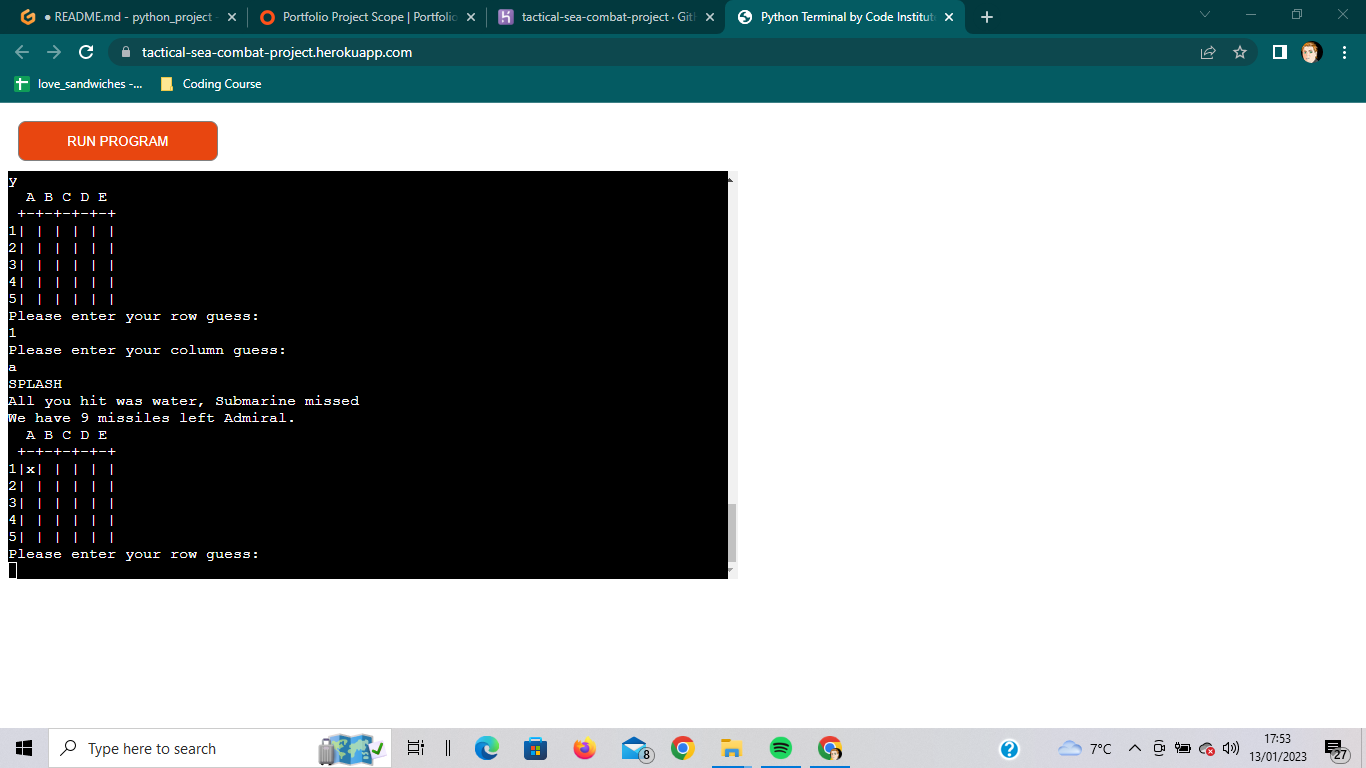
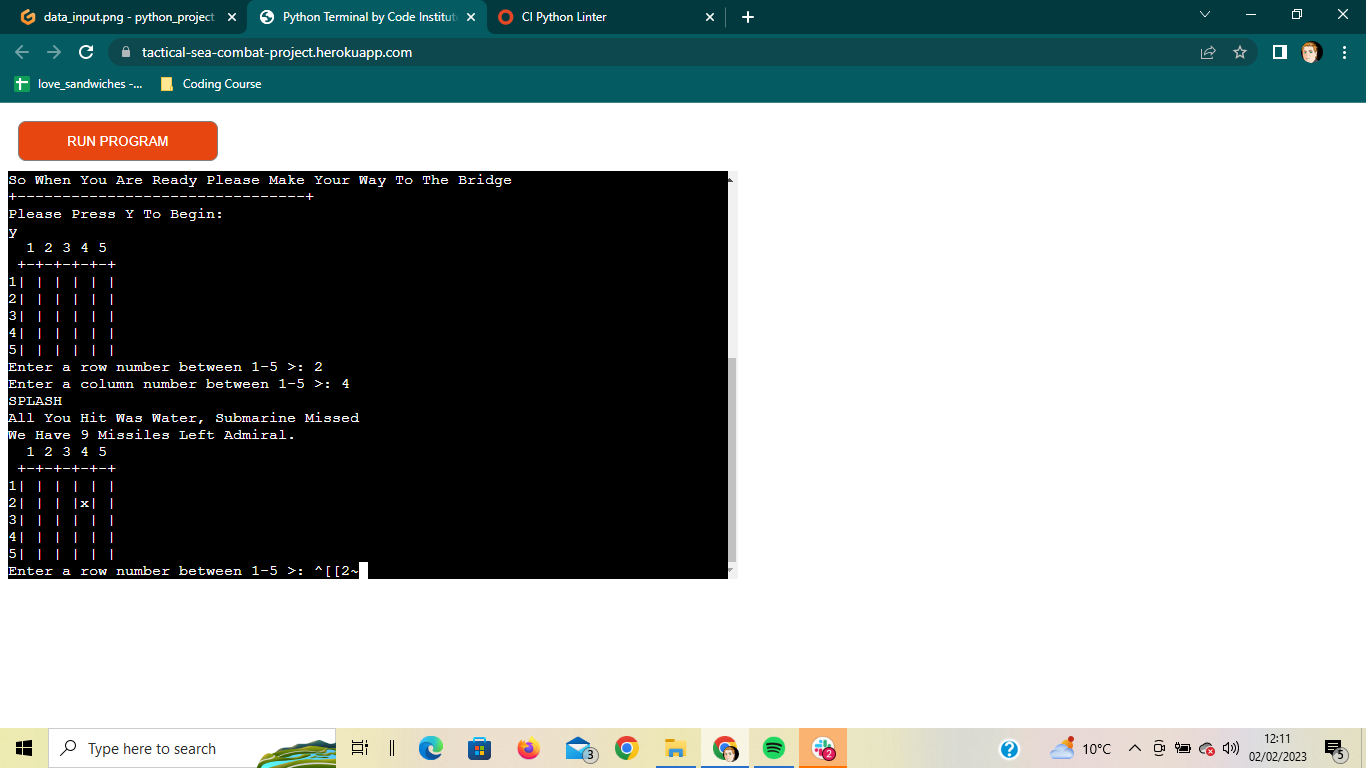
Update README.md file after recent changes

diff --git a/README.md b/README.md
@@ -33,10 +33,11 @@ If the player is able to find the enemy sub within 10 turns they are deemed the 
 
 * Accepts user input
     * On several occasions the player is asked for input which effects the game in some way.
-        * At the beginning of the game the player are asked for their name, which is then used to "athorise" their clearance and is used to refer to them by name in the introduction.
+        * At the beginning of the game the player are asked for their name, which is then used to "athorise" their clearance and is used to refer to them by name in the introduction. This however can be left blank if the player does not wish to enter their name.
         <img src= "images/intro_message.png">
-        * After the introductionary text explaining the game is the player is asked to press the "Y" key to proceed to the game. Intil this is done the game won't proceed.
-        * During the game the player is asked for their guesses using inputs of the number of the row and letter of the column they believe the sub is in.
+        * After the introductionary text explaining the game is the player is asked to press the "Y" key to proceed to the game. Until this is done the game won't proceed.
+        <img src= "images/game_start.png">
+        * During the game the player is asked for their guesses using inputs of the number of the row and column they believe the sub is in.
         <img src= "images/data_input.png">
         * After the game is won or lost the player is asked if they would like to restart the game using an input: "Y" restarts the game, "N" closes the game after a message is displayed and all other inputs result in the input request message to be replayed.
         <img src= "images/win_game.png">
@@ -48,11 +49,13 @@ If the player is able to find the enemy sub within 10 turns they are deemed the 
 
 * Input validation and error-checking
     * The player must enter the correct input to start the game otherwise the message will continue to reprint until the player enters the required input.
-    * During the game the player is unable to enter a number or letter that doesn't respond to a row or column or the game board.
+    <img src= "images/game_start.png">
+    * During the game the player is unable to enter a number that doesn't respond to a row or column or the game board.
     <img src= "images/invaid_input.png">
     * The player is unable to enter a dupliucate guess and is met with a message stating it's a duplicate guess and asks them to enter another guess.
     <img src= "images/duplicate_input.png">
     * The restart game message only allows you to enter "Y" to restart the game and "N" to end the game, any other input will result in the restart game message to be displayed again.
+    <img src= "images/exit_input.png">
 
 <h3>Future Features</h3>
 
@@ -73,18 +76,28 @@ I also have a Ship class to create the sub, take the player's guess and deal wit
 
 I have manually tested this project in the following ways:
   * Passed it through the Code Institute Python Linter and recieved no errors
+  <img src= "images/code_vaildator.png">
   * Given invalid data into all available inputs: 
     * Input strings when numbers were expected and numbers when strings were expected.
-    * Input numbers and strings out of the available range of co-ordinates
+    <img src= "images/invaid_input.png">
+    * Input numbers that were out of the available range of co-ordinates
+    <img src= "images/invaid_coordinates.png">
     * Input duplucate guesses
-    * Input invalid options to the "Start Game" and "Restart Game" 
-  * Tested in my local terminal
+    <img src= "images/duplicate-input.png">
+    * Input empty input fields
+    <img src= "images/empty_field.png">
+    * Input invalid options to the "Restart Game"
+    <img src= "images/exit_input.png">
+  * Tested in my local terminal and on the Heroku app
 
 <h2>Bugs</h2>
 
 <h3>Fixed Bugs</h3>
 
 * The play_again() function would only run twice and wouldn't display the farewell message when you selected to end the game. I fixed this by adding a while True: to the start of the if/ else statement and a break after the farewell message.
+* It was brought to my attention after publishing that inputting an empty input into the get_input() guess field would cause the game to crash. I fixed this by changing the design of the section from row being numbers and columns being letters to both being numbers. I did this as despite extensive research and trial and error, I could not find a solution to the problem  which didn't cause another issue or didn't fix the problem. After changing the columns to numbers I was able to put both inputs in a single try/ exept/ if statement, starting with a "while True" statement. This means the function could check for EOFErrors, check that the input is a valid selection and would still work as originally purposed.
+* It was also brought to my attention after publishing that a similar issue occured with empty inputs would cause the play_again() field to crash. I fixed this issue by adding try and except statements before the if/ elif /else staements that I added to fix a previous bug. This let me account for possible EOFErrors and would prevent crashing.
+* An empty input was accepted as an acceptable input in the start_game input option in the intro() function. I fixed this by moving the start_game input into it's own function called start_input(). There I put the input option into a try/ except/ if/ else statement starting with a "while True" statement. this allowed me to check for invalid and empty inputs correctly.
 
 <h3>Known Bugs</h3>
 
@@ -94,6 +107,8 @@ I have manually tested this project in the following ways:
 
 * PEP8
   * No errors were returned from https://pep8ci.herokuapp.com/
+  
+  <img src= "images/code_validator.png">
 
 <h2>Deployment</h2>
 
